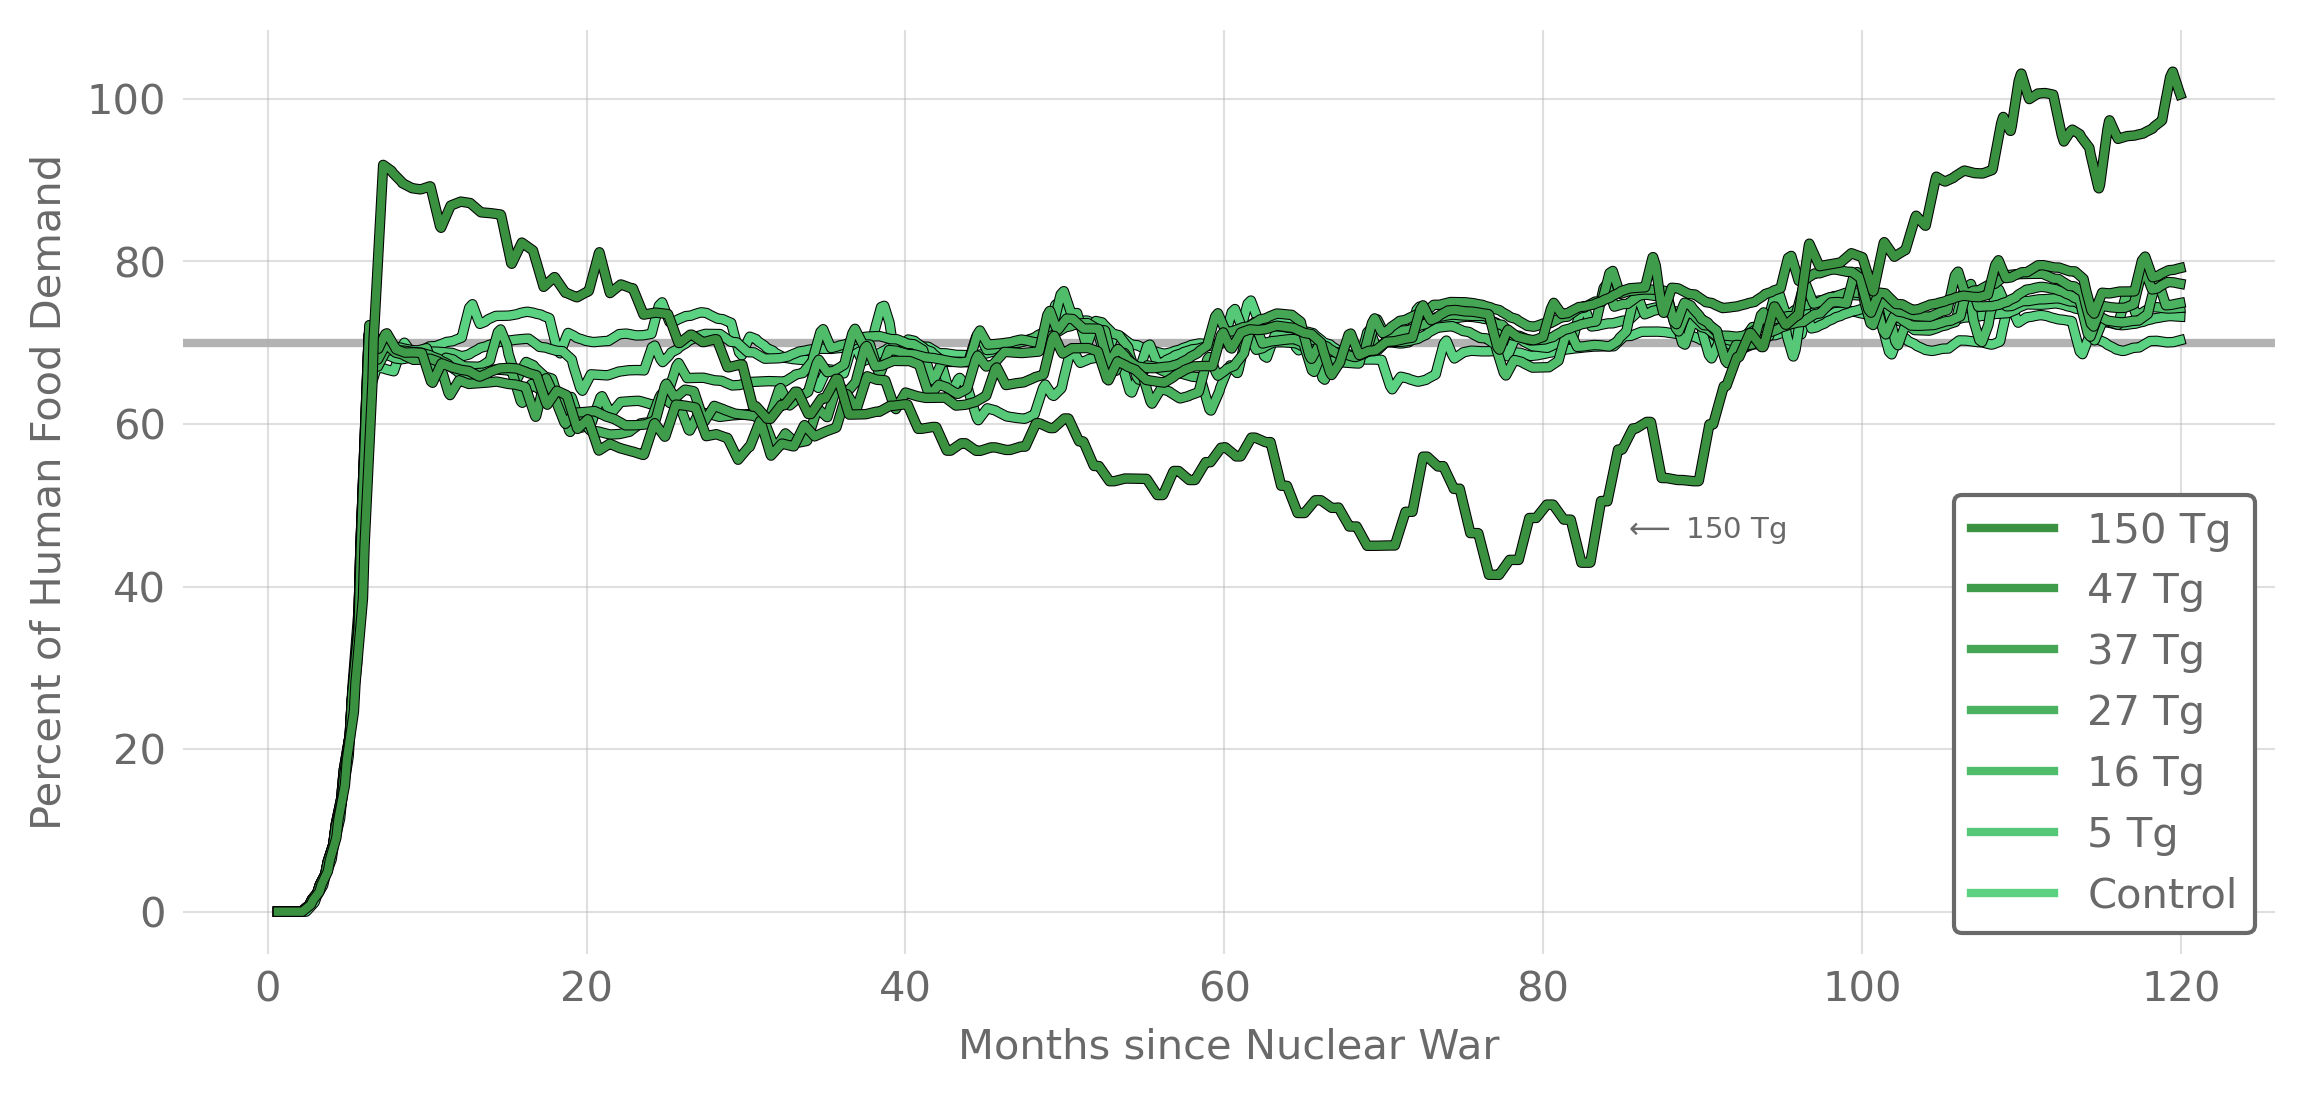
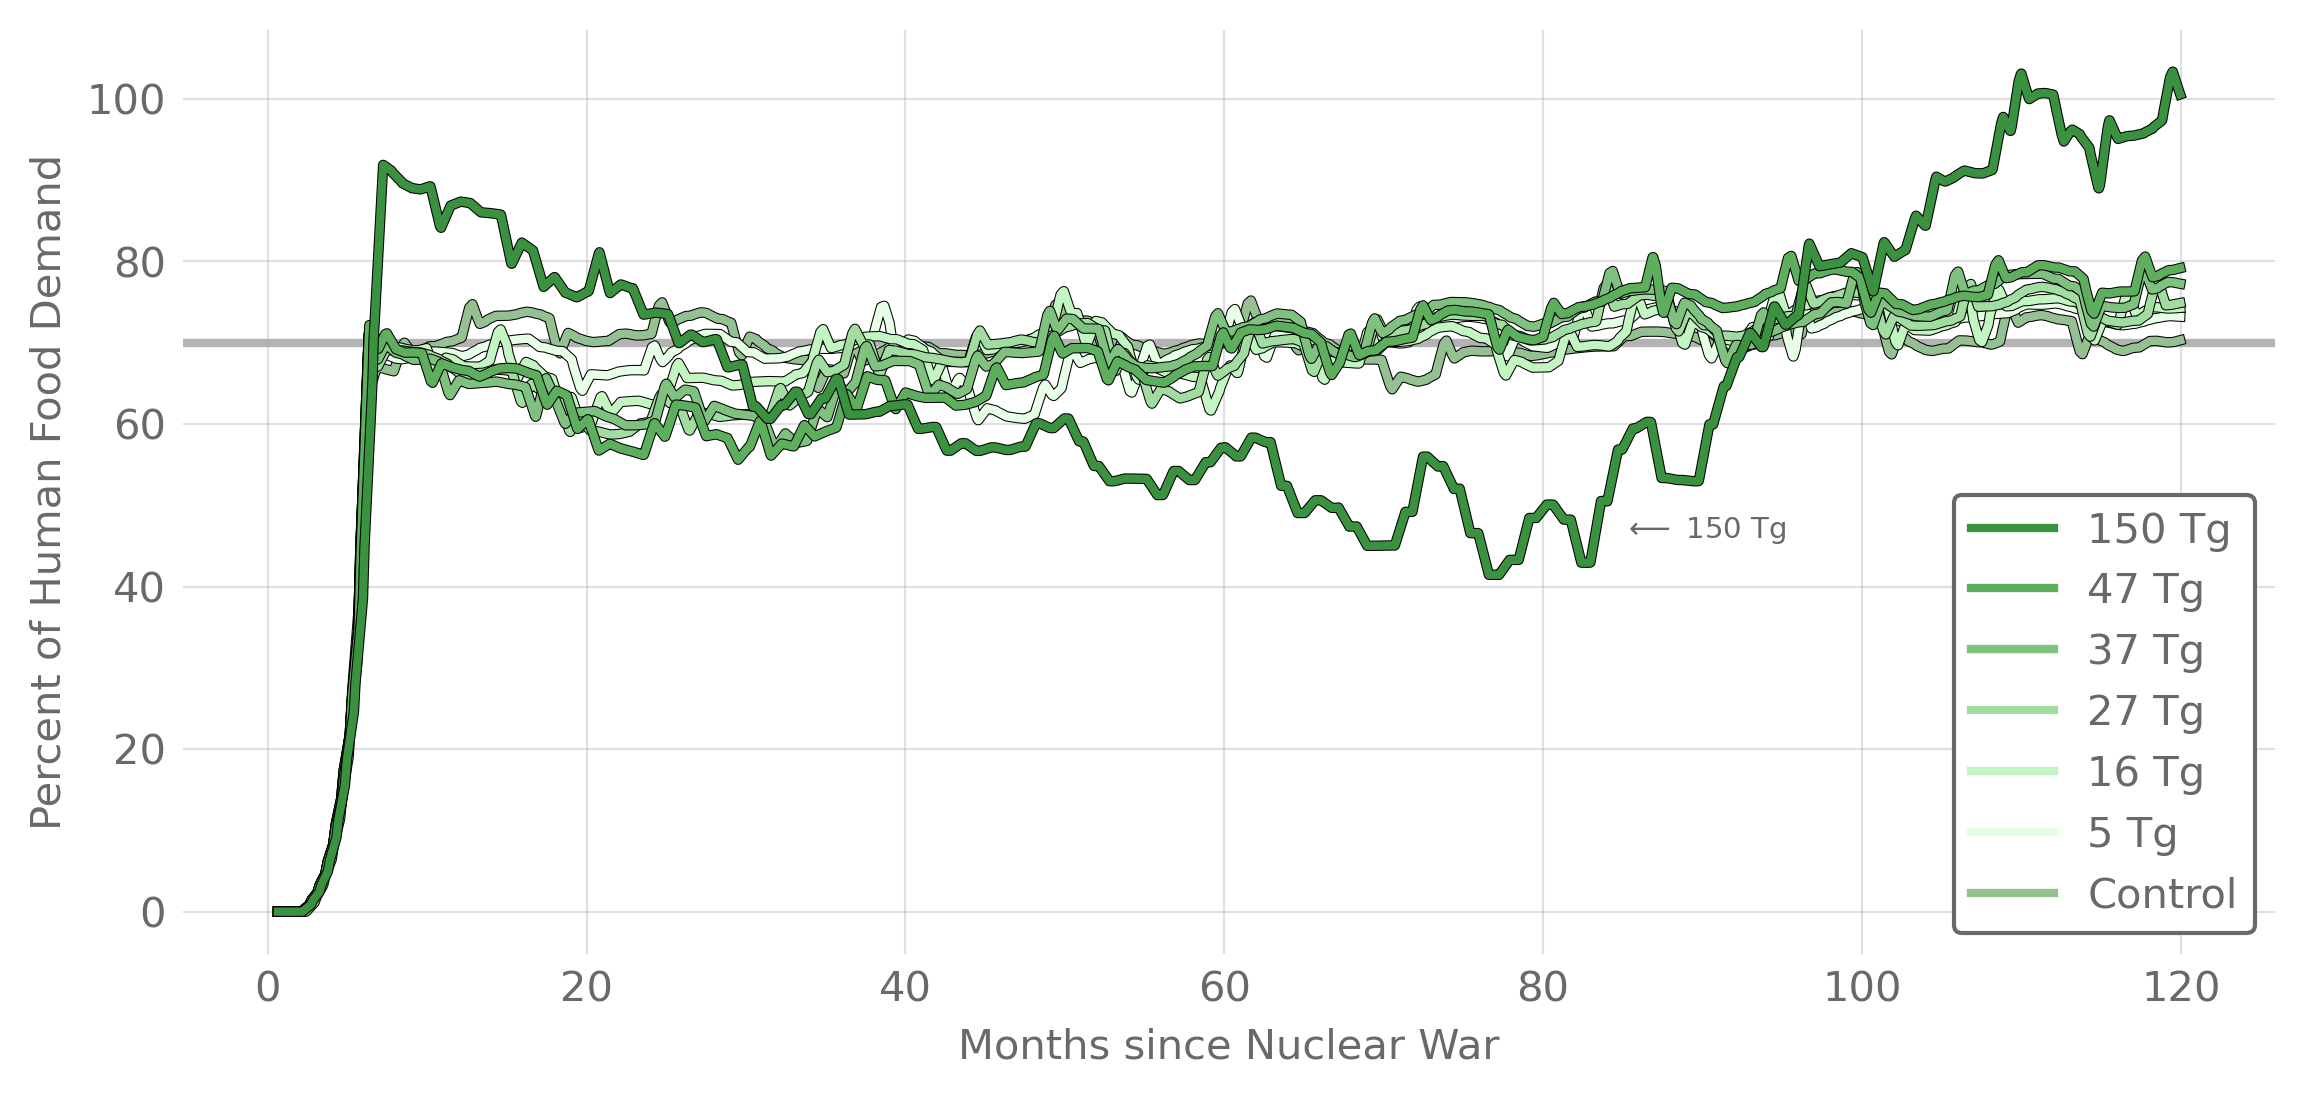
better greens

diff --git a/src/plotter.py b/src/plotter.py
@@ -92,16 +92,17 @@ def plot_scenario_comparison(percent_need, scenario_max_growth_rates_df):
     Returns:
         None, but plots and saves the results
     """
-    # Define the colors
+    # Define the colors starting with #3A913F for the 150 tg scenario and adding 6 very distinct green colors
     colors = {
         "150 Tg": "#3A913F",
-        "47 Tg": "#3F9C4A",
-        "37 Tg": "#45A755",
-        "27 Tg": "#4BB260",
-        "16 Tg": "#50BD6B",
-        "5 Tg": "#56C877",
-        "Control": "#5BD282",
+        "47 Tg": "#5DAF5D",
+        "37 Tg": "#7FC17F",
+        "27 Tg": "#A1DCA1",
+        "16 Tg": "#C3F5C3",
+        "5 Tg": "#E6FFE6",
+        "Control": "#95c091",
     }
+
     # Create a figure to plot in
     fig, ax = plt.subplots(1, 1)
     # Iterate over all scenarios
